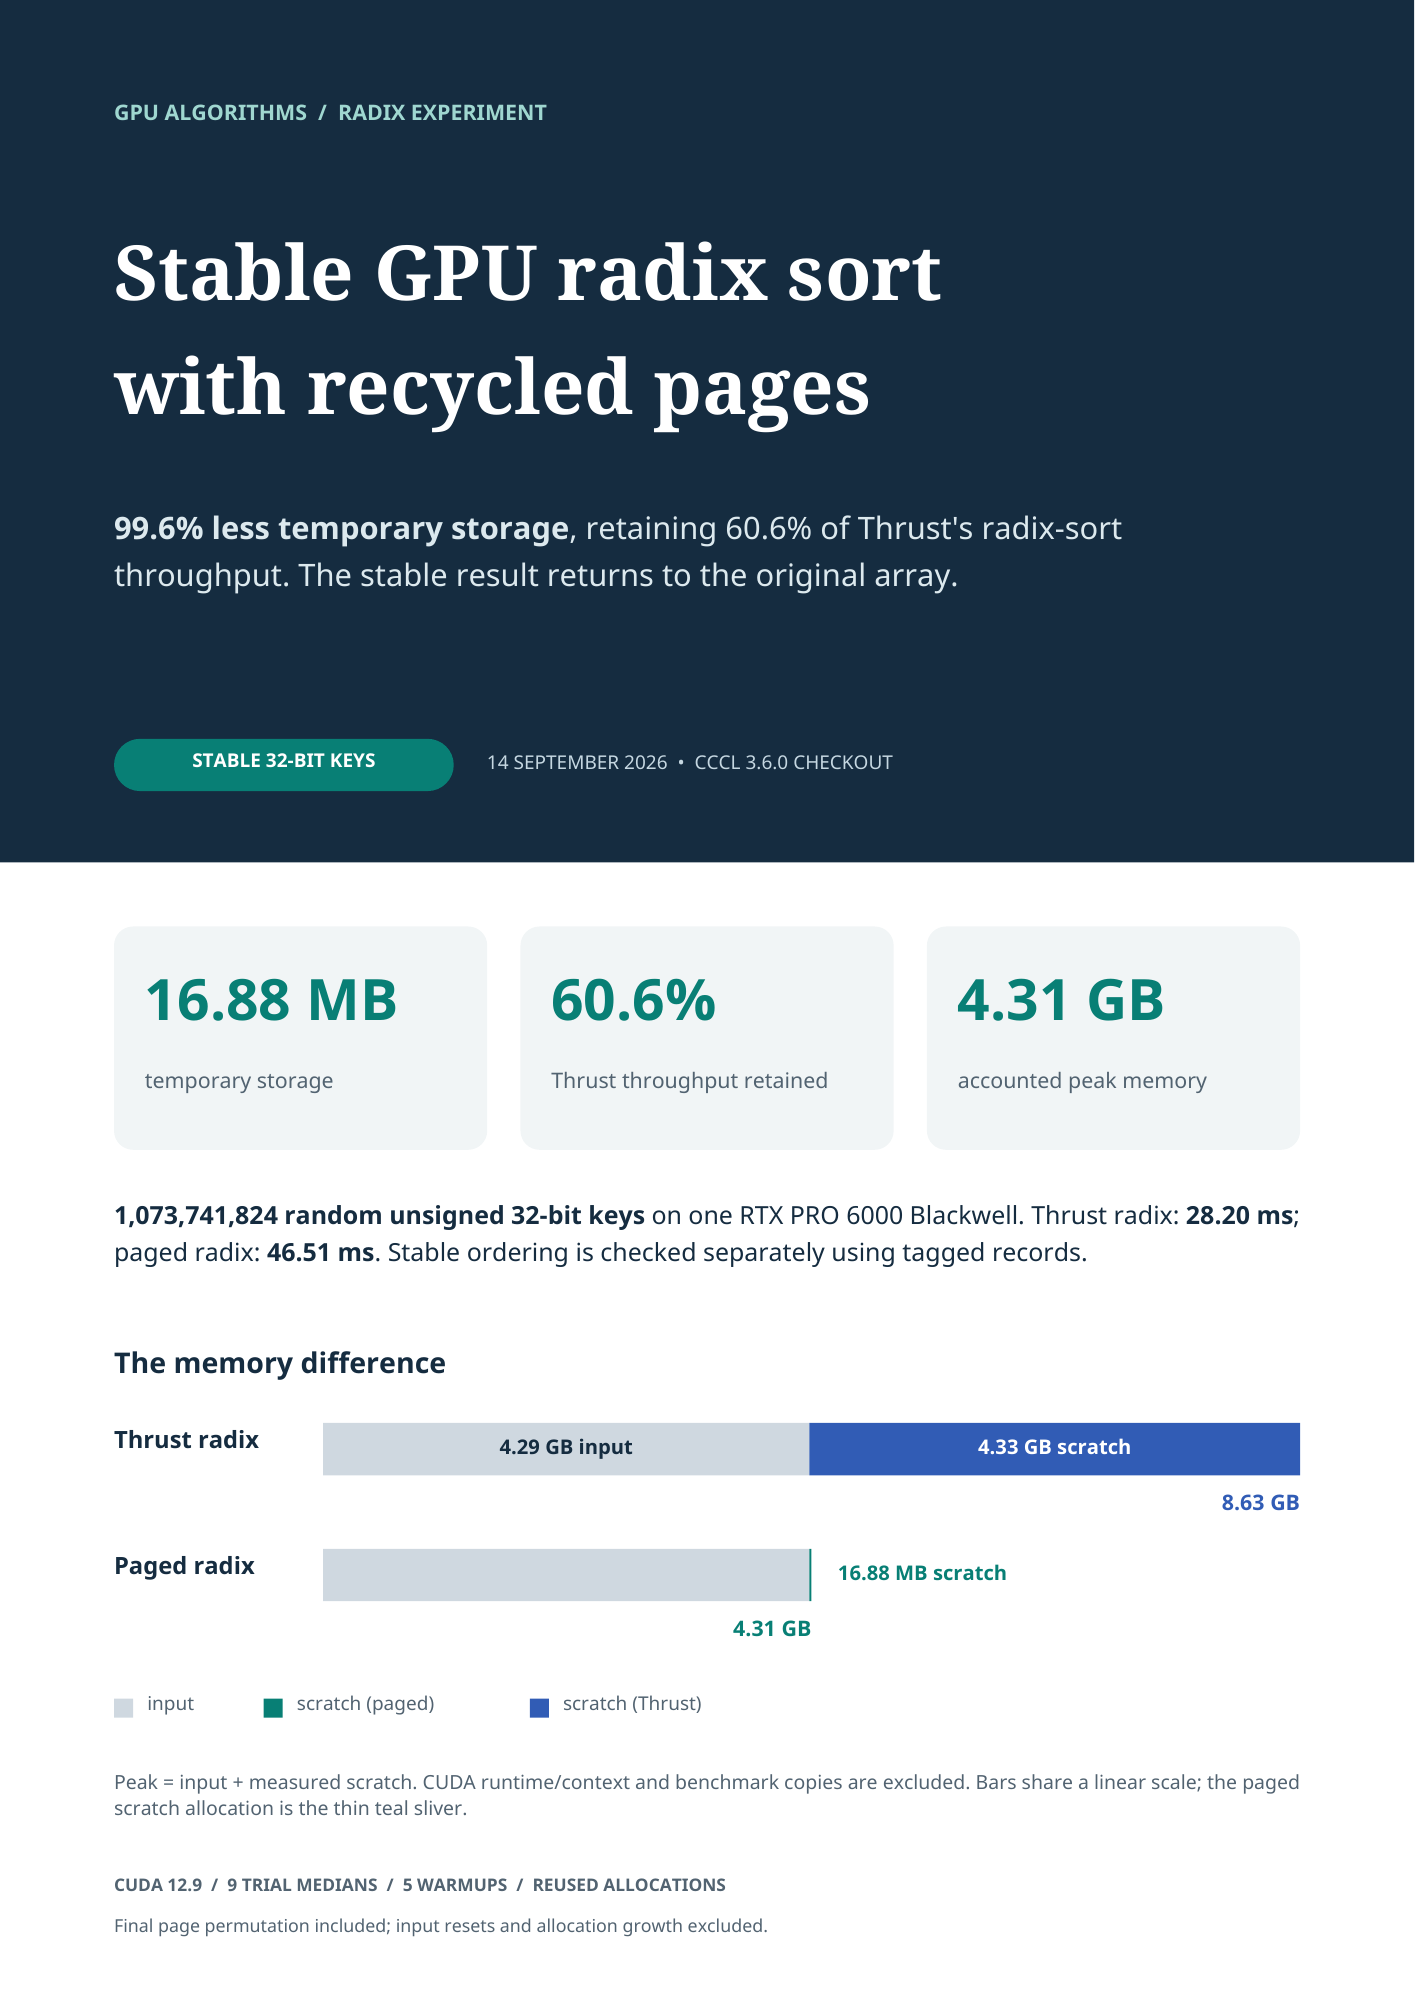
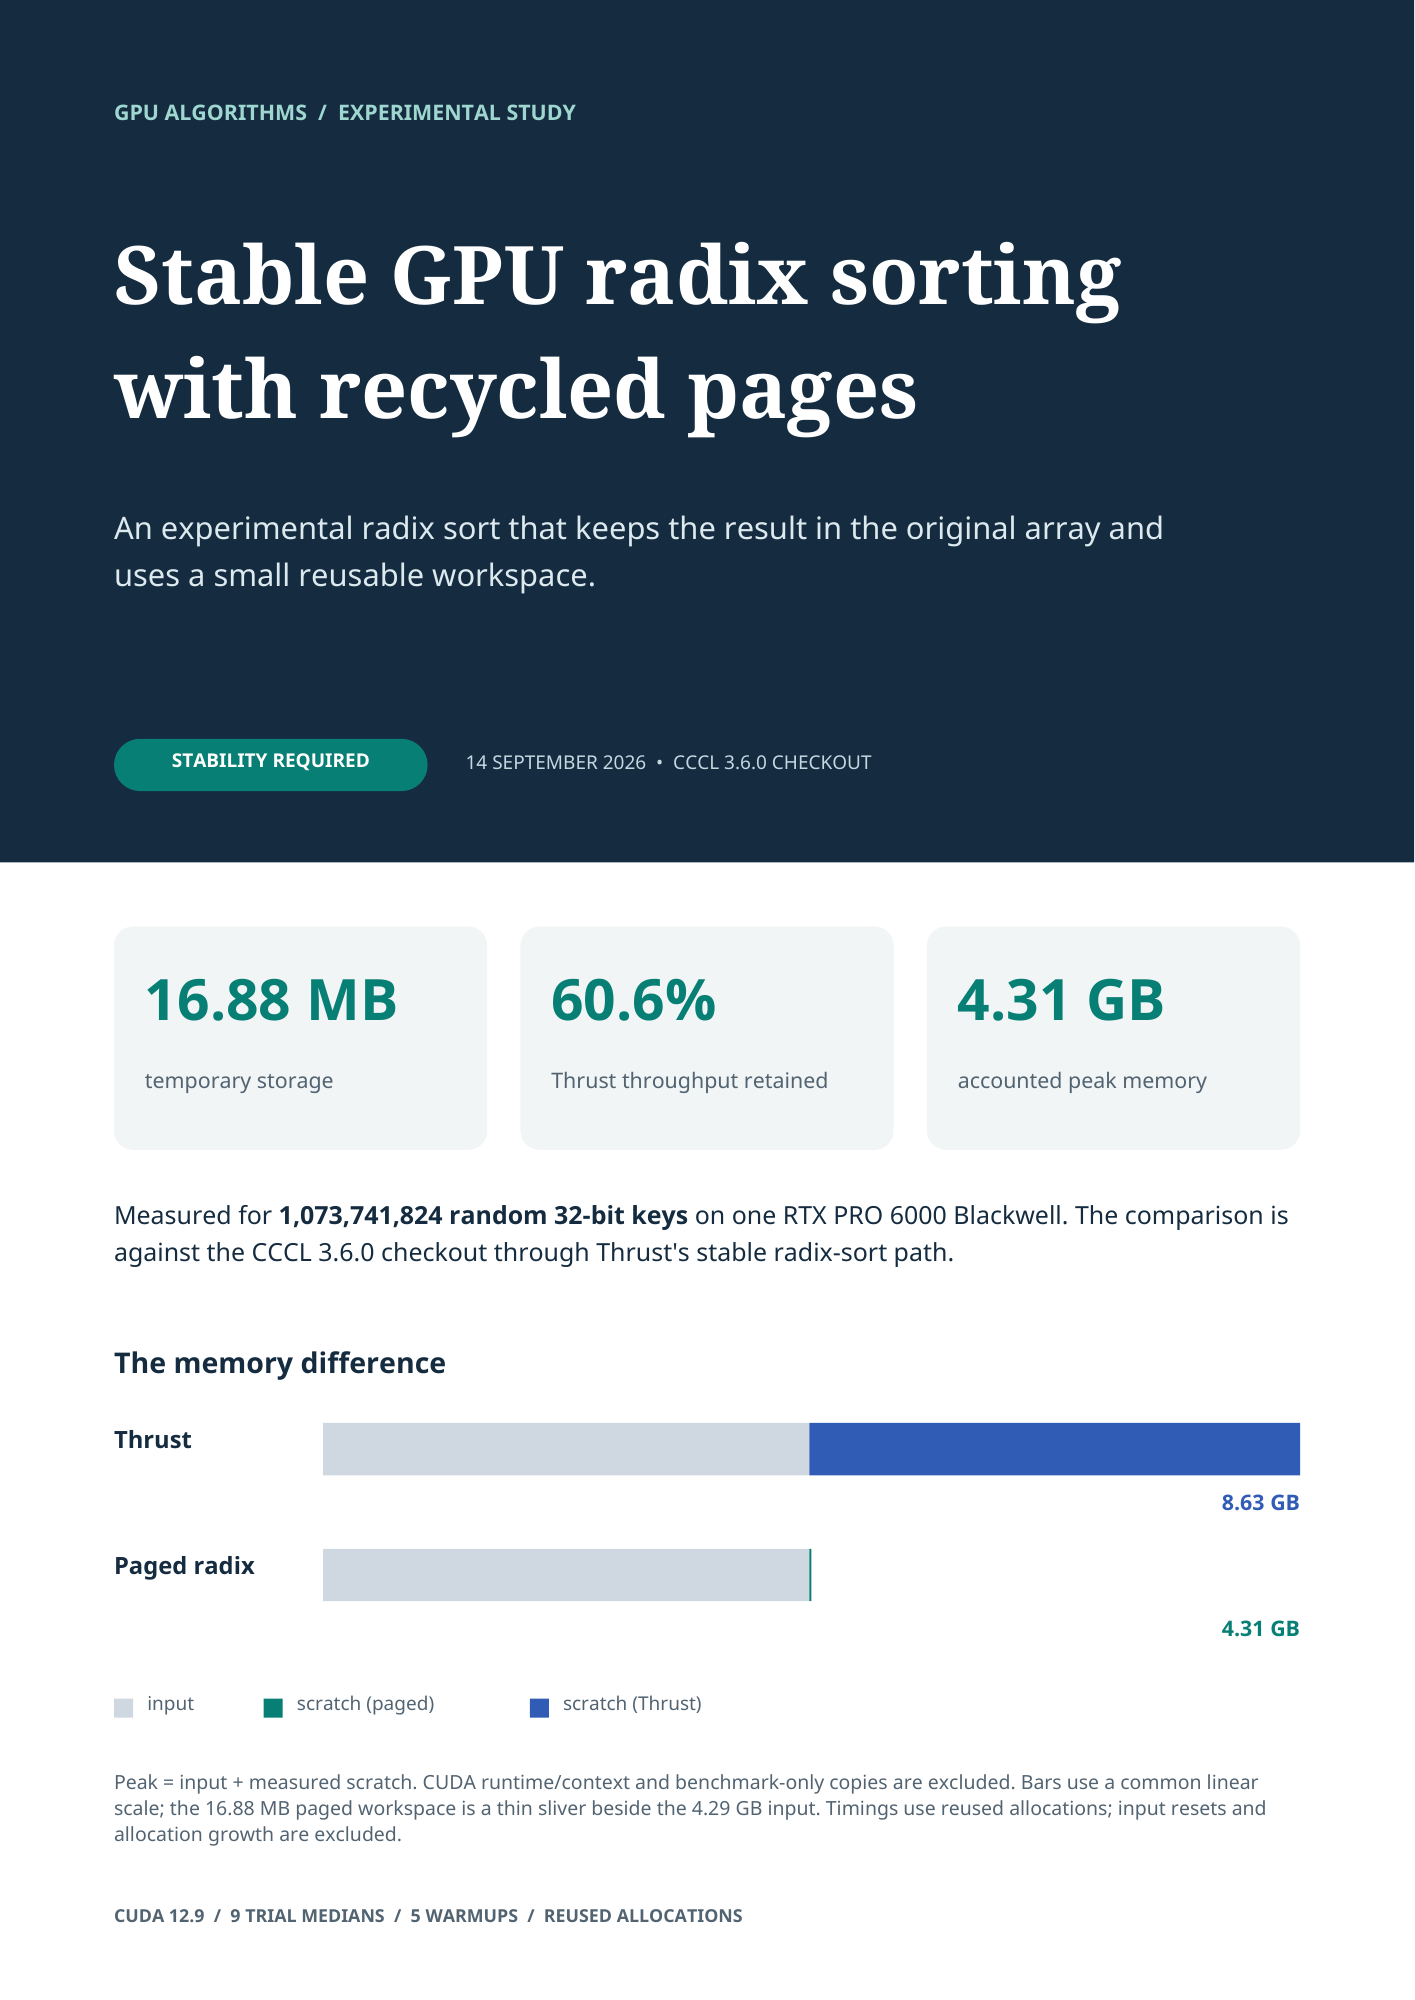
Match the radix summary directly to the original cover layout

diff --git a/examples/low_memory_stable_sort/docs/make_radix_headline.py b/examples/low_memory_stable_sort/docs/make_radix_headline.py
@@ -46,7 +46,6 @@ def main():
     paged_peak = int(row["candidate_peak_bytes"])
     baseline_ms, paged_ms = float(row["baseline_ms"]), float(row["candidate_ms"])
     retained = baseline_ms / paged_ms * 100
-    saved = (1 - paged_scratch / baseline_scratch) * 100
     assert baseline_peak == input_bytes + baseline_scratch
     assert paged_peak == input_bytes + paged_scratch
     assert abs(retained - float(row["throughput_ratio"]) * 100) < 0.001
@@ -97,12 +96,12 @@ def main():
         p.drawOn(c, x, H - y - height)
 
     rect(0, 0, W, 363, INK)
-    label("GPU ALGORITHMS  /  RADIX EXPERIMENT", M, 43, 9, "Bold", "#9FD7D0")
-    label("Stable GPU radix sort", M, 99, 32, "SerifBold", WHITE)
-    label("with recycled pages", M, 147, 32, "SerifBold", WHITE)
+    label("GPU ALGORITHMS  /  EXPERIMENTAL STUDY", M, 43, 9, "Bold", "#9FD7D0")
+    label("Stable GPU radix sorting", M, 99, 34, "SerifBold", WHITE)
+    label("with recycled pages", M, 147, 34, "SerifBold", WHITE)
     para(
-        f"<b>{saved:.1f}% less temporary storage</b>, retaining {retained:.1f}% of Thrust's "
-        "radix-sort throughput. The stable result returns to the original array.",
+        "An experimental radix sort that keeps the result in the original array "
+        "and uses a small reusable workspace.",
         M,
         214,
         465,
@@ -110,11 +109,11 @@ def main():
         20,
         "#DCE9EE",
     )
-    rect(M, 311, 143, 22, TEAL, 11)
-    label("STABLE 32-BIT KEYS", M + 71.5, 316, 8, "Bold", WHITE, "center")
+    rect(M, 311, 132, 22, TEAL, 11)
+    label("STABILITY REQUIRED", M + 66, 316, 8, "Bold", WHITE, "center")
     label(
         measured.strftime("%d %B %Y").upper() + "  •  CCCL 3.6.0 CHECKOUT",
-        M + 157,
+        M + 148,
         317,
         8,
         "Sans",
@@ -133,9 +132,8 @@ def main():
         para(description, x + 13, 449, width - 26, 9, 12, MUTED)
 
     para(
-        f"<b>{n:,} random unsigned 32-bit keys</b> on one RTX PRO 6000 Blackwell. "
-        f"Thrust radix: <b>{baseline_ms:.2f} ms</b>; paged radix: <b>{paged_ms:.2f} ms</b>. "
-        "Stable ordering is checked separately using tagged records.",
+        f"Measured for <b>{n:,} random 32-bit keys</b> on one RTX PRO 6000 Blackwell. "
+        "The comparison is against the CCCL 3.6.0 checkout through Thrust's stable radix-sort path.",
         M,
         505,
         CW,
@@ -147,7 +145,7 @@ def main():
     available = CW - 88
     input_width = available * input_bytes / baseline_peak
     for y, name, scratch, color in [
-        (601, "Thrust radix", baseline_scratch, BLUE),
+        (601, "Thrust", baseline_scratch, BLUE),
         (654, "Paged radix", paged_scratch, TEAL),
     ]:
         scratch_width = available * scratch / baseline_peak
@@ -156,42 +154,13 @@ def main():
         rect(x + input_width, y - 2, scratch_width, 22, color)
         label(
             f"{(input_bytes + scratch) / 1e9:.2f} GB",
-            x + input_width + scratch_width,
+            x + available,
             y + 27,
             9,
             "Bold",
             color,
             "right",
         )
-        if name == "Thrust radix":
-            label(
-                f"{input_bytes / 1e9:.2f} GB input",
-                x + input_width / 2,
-                y + 4,
-                8.5,
-                "Bold",
-                INK,
-                "center",
-            )
-            label(
-                f"{scratch / 1e9:.2f} GB scratch",
-                x + input_width + scratch_width / 2,
-                y + 4,
-                8.5,
-                "Bold",
-                WHITE,
-                "center",
-            )
-        else:
-            label(
-                f"{scratch / 1e6:.2f} MB scratch",
-                x + input_width + 12,
-                y + 4,
-                8.5,
-                "Bold",
-                TEAL,
-            )
-
     for offset, color, text in [
         (0, INPUT, "input"),
         (63, TEAL, "scratch (paged)"),
@@ -200,8 +169,10 @@ def main():
         rect(M + offset, 715, 8, 8, color)
         label(text, M + offset + 14, 713, 8, "Sans", MUTED)
     para(
-        "Peak = input + measured scratch. CUDA runtime/context and benchmark copies are excluded. "
-        "Bars share a linear scale; the paged scratch allocation is the thin teal sliver.",
+        "Peak = input + measured scratch. CUDA runtime/context and benchmark-only copies are excluded. "
+        f"Bars use a common linear scale; the {paged_scratch / 1e6:.2f} MB paged workspace is a thin sliver "
+        f"beside the {input_bytes / 1e9:.2f} GB input. Timings use reused allocations; "
+        "input resets and allocation growth are excluded.",
         M,
         745,
         CW,
@@ -212,17 +183,9 @@ def main():
     label(
         f"CUDA 12.9  /  {env['timed_repeats']} TRIAL MEDIANS  /  {env['warmups_per_algorithm']} WARMUPS  /  REUSED ALLOCATIONS",
         M,
-        790,
-        7.3,
-        "Bold",
-        MUTED,
-    )
-    label(
-        "Final page permutation included; input resets and allocation growth excluded.",
-        M,
-        807,
+        803,
         7.5,
-        "Sans",
+        "Bold",
         MUTED,
     )
     c.showPage()
